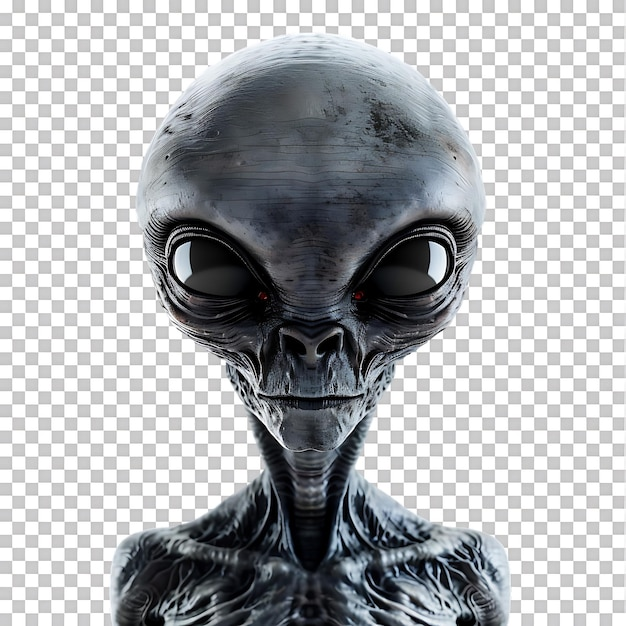
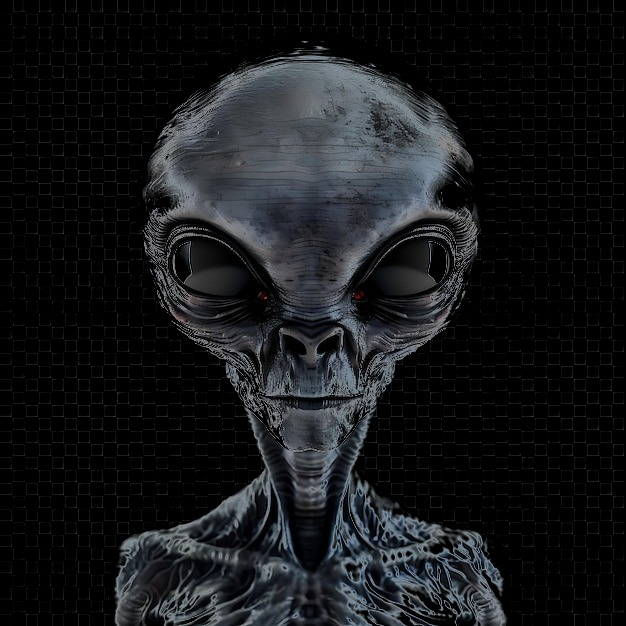
fix: Schachbrett-Hintergrund des Alien-Bildes schwarz gemacht
- Helle Pixel (Helligkeit > 140) mit Python/Pillow entfernt
- Weicher Übergang verhindert harte Kanten am Alien
- CSS: filter/blend-mode vereinfacht, opacity 0.4

https://claude.ai/code/session_01E8J7RacQ2yZvrPCLC1FqP8

diff --git a/css/style.css b/css/style.css
@@ -568,11 +568,10 @@ h1 {
   transform: translate(50%, -50%);
   height: 100vh;
   width: auto;
-  opacity: 0.35;
+  opacity: 0.4;
   z-index: 0;
   pointer-events: none;
-  mix-blend-mode: screen;
-  filter: invert(1) contrast(1.15) brightness(1.05);
+  filter: drop-shadow(0 0 40px rgba(57,255,20,0.2));
 }
 
 /* ── Responsive ── */
